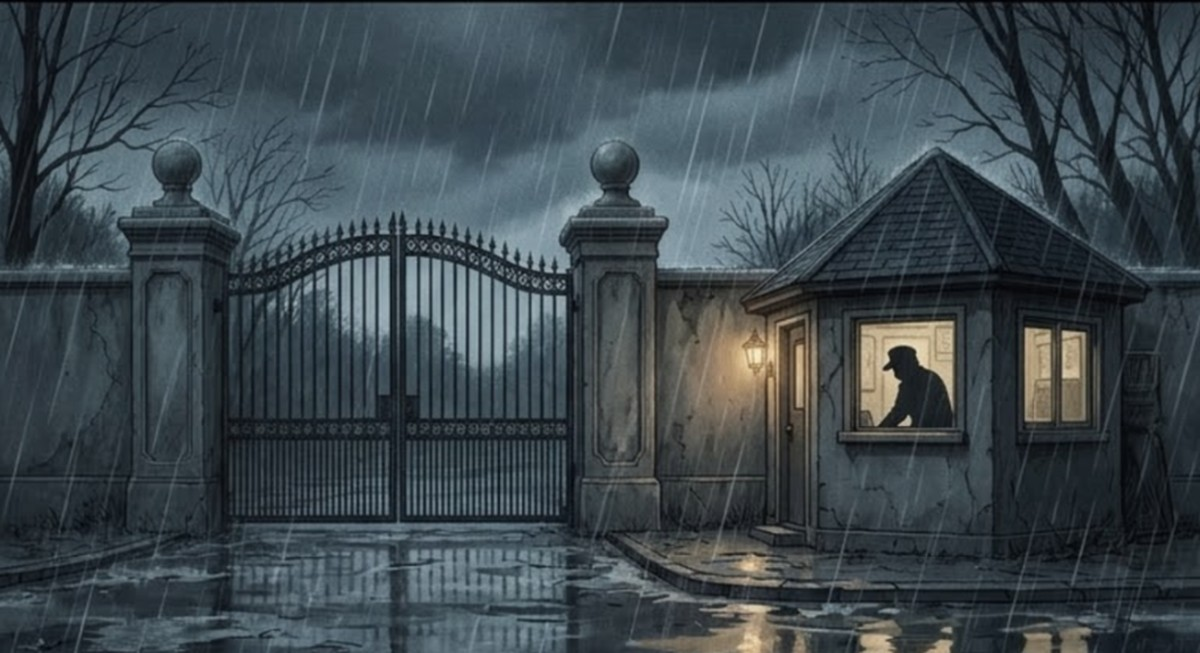
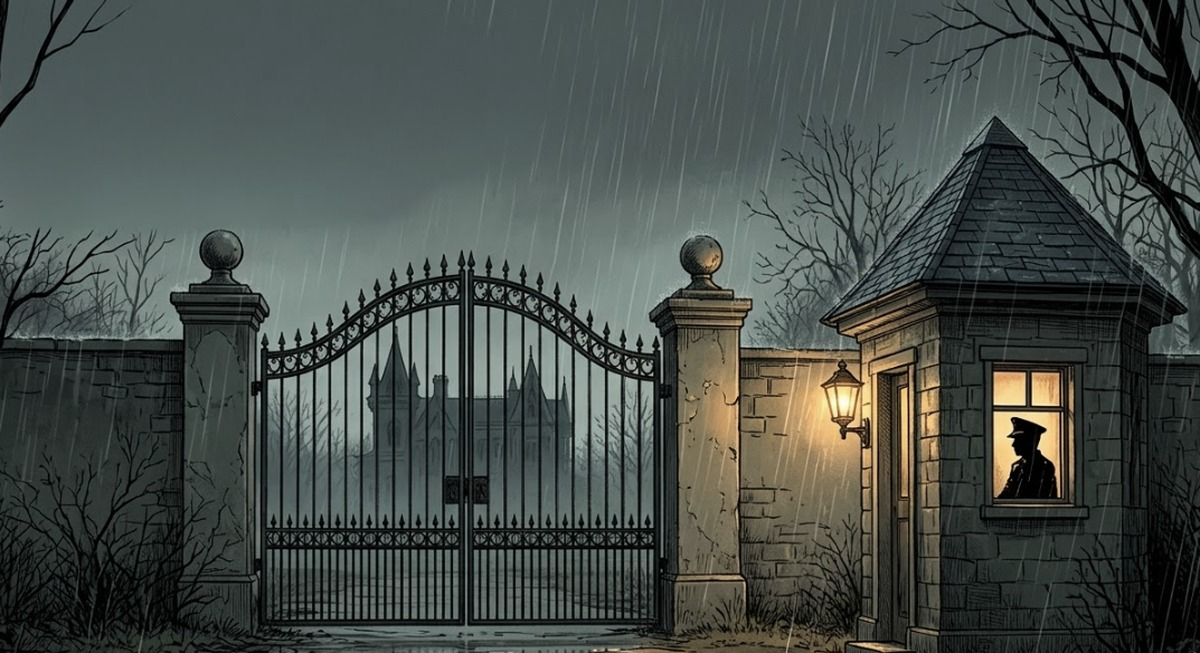
1화 재작화 반영: c01~c04b·c08·c09·c11~c23 (1안) + 말풍선 재배치(c03 콜록·c09 허밍)
Claude-Session: https://claude.ai/code/session_018twa3QMQYz3PY4RAJxVLUb

diff --git a/ep01/index.html b/ep01/index.html
@@ -277,7 +277,7 @@ html.mo .snd{animation:mo-fade 1s ease-out 1.2s backwards}
   <div class="p tight"><img src="c02.jpg" alt="경비실에서 전화를 받는 경비원 정근">
     <div class="bub phone" style="left:4%;top:6%">응, 아빠야.</div></div>
   <div class="p tight"><img src="c03.jpg" alt="반지하 방 이불 속에서 전화하며 기침하는 아들 준호">
-    <div class="sfx" style="left:36%;top:30%;font-size:clamp(18px,5cqw,42px);transform:rotate(-6deg)">콜록</div>
+    <div class="sfx" style="left:46%;top:46%;font-size:clamp(18px,5cqw,42px);transform:rotate(-6deg)">콜록</div>
     <div class="bub phone" style="left:4%;top:5%">아빠, 언제 와?</div></div>
   <div class="p"><img src="c04.jpg" alt="수화기에 대고 낮게 말하는 정근">
     <div class="bub bl" style="right:4.1%;top:5.3%">이따 갈게.<br>약 먹고 자.</div>
@@ -291,7 +291,7 @@ html.mo .snd{animation:mo-fade 1s ease-out 1.2s backwards}
   <div class="gap hum-line" style="height:clamp(100px,18vw,160px)">음— 음음—</div>
   <div class="p"><img src="c08.jpg" alt="고개를 드는 정근의 눈, 모자 챙에 맺힌 빗방울"></div>
   <div class="p"><img src="c09.jpg" alt="빗속 저택, 불 켜진 2층 창문에 선 아이의 실루엣">
-    <div class="hum" style="left:52%;top:10%;transform:rotate(-4deg)">음— 음음— 음—</div></div>
+    <div class="hum" style="left:40%;top:7%;transform:rotate(-4deg)">음— 음음— 음—</div></div>
   <div class="p"><img src="c08.jpg" alt="같은 눈, 굳어 있다" style="filter:brightness(.82)">
     <div class="cap" style="left:3%;top:5%">미숙이 매일 흥얼거리던 노래였다.</div></div>
 
